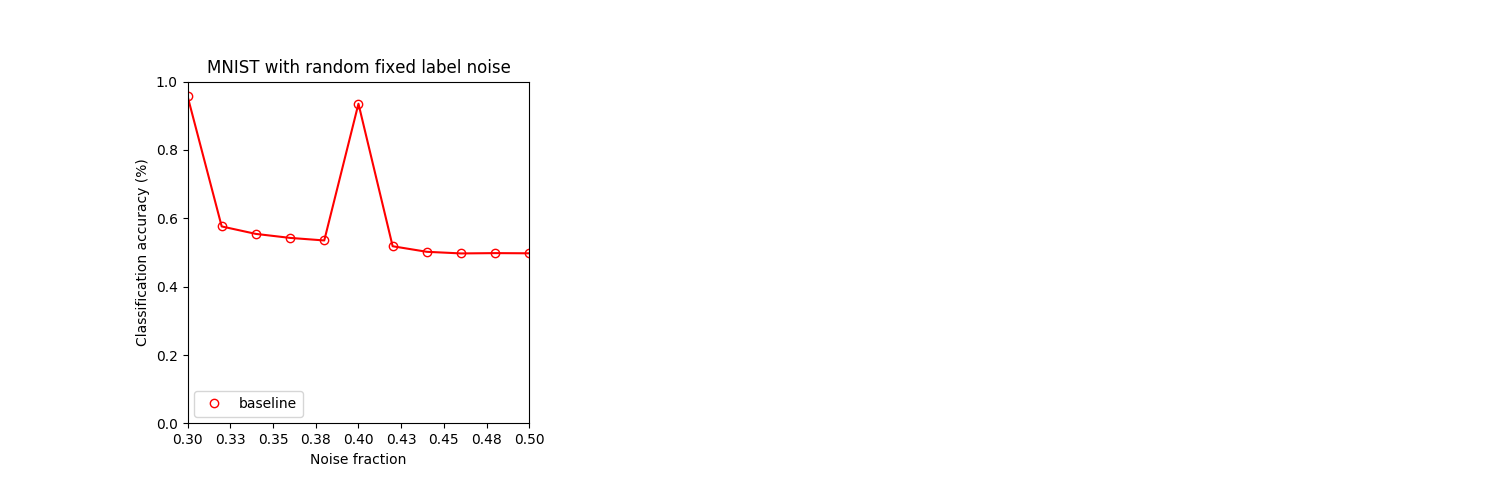
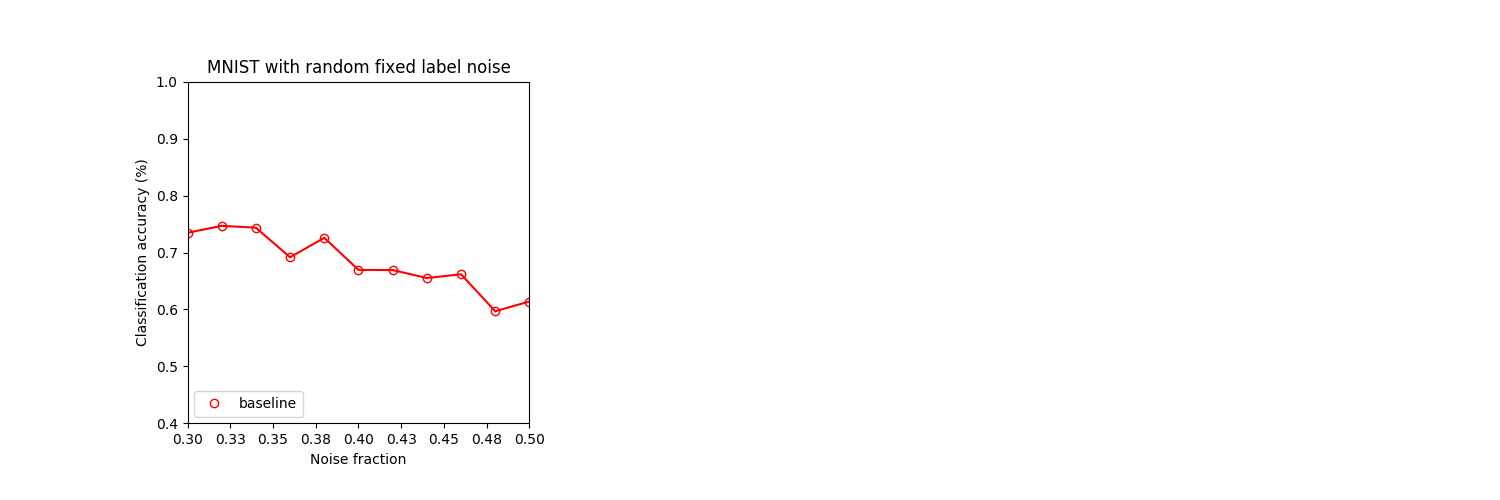
Add MNIST normalisation

diff --git a/train.py b/train.py
@@ -20,6 +20,7 @@ def get_noise_mapping(seed=1):
   return noise_mapping
 
 def noisify_labels(y, noise_fractions, noise_mapping, seed=1):
+  
   np.random.seed(seed)
   y_noisy = np.zeros(y.shape)
   for i in range(y.shape[0]):
@@ -34,8 +35,9 @@ def noisify_labels(y, noise_fractions, noise_mapping, seed=1):
 def noisify_mnist(noise_fraction):
   # load the data
   (x_train, y_train), (x_test, y_test) = mnist.load_data()
-  x_train = np.reshape(x_train, (x_train.shape[0], 784))
-  x_test = np.reshape(x_test, (x_test.shape[0], 784))
+
+  x_train = np.reshape(x_train, (x_train.shape[0], 784)) / 255.
+  x_test = np.reshape(x_test, (x_test.shape[0], 784)) / 255.
   
   noise_mapping = get_noise_mapping()
   noise_fractions = [noise_fraction for i in range(10)]
@@ -52,7 +54,8 @@ def noisify_mnist(noise_fraction):
   return x_train, y_train, y_train_noisy, x_test, y_test, map, noise_mapping
 
 def evaluate_noise_grid(model_getter, \
-                        noise_grid=[x for x in np.arange(0.3,0.51,0.02)]):
+                        noise_grid=[x for x in np.arange(0.3,0.51,0.02)], \
+                        n_splits=5):
 
   accs = []
   noise_mapping = None
@@ -65,12 +68,15 @@ def evaluate_noise_grid(model_getter, \
     weights_file = './%s/%s_noise_fraction_%.2lf.h5' \
                  % (model_name, model_name, noise_fraction)
     
+    validation_data = (x_test, np_utils.to_categorical(y_test))
+
     if not trained:
       model.fit(x_train, \
                 np_utils.to_categorical(y_train_noisy), \
+                validation_data=validation_data, \
                 callbacks=callbacks, \
-                batch_size=256, \
-                epochs=1000)
+                batch_size=32, \
+                epochs=10000)
       model.save(weights_file)
 
     model.load_weights(weights_file)
@@ -86,17 +92,13 @@ def baseline_model_getter(noise_fraction):
   # build the model for pre-training
   inputs = Input(shape=(784,))
   x = Dense(500, activation='relu', \
-    kernel_regularizer=regularizers.l2(0.0001), \
-    bias_regularizer=regularizers.l2(0.0001))(inputs)
+    kernel_regularizer=regularizers.l2(0.0001))(inputs)
   x = Dense(300, activation='relu', \
-    kernel_regularizer=regularizers.l2(0.0001), \
-    bias_regularizer=regularizers.l2(0.0001))(x)
+    kernel_regularizer=regularizers.l2(0.0001))(x)
   x = Dense(10, activation='relu', \
-    kernel_regularizer=regularizers.l2(0.0001), \
-    bias_regularizer=regularizers.l2(0.0001))(x)
-  q = Dense(10, activation='softmax', name='q',\
-    kernel_regularizer=regularizers.l2(0.0001), \
-    bias_regularizer=regularizers.l2(0.0001))(x)
+    kernel_regularizer=regularizers.l2(0.0001))(x)
+  q = Dense(10, activation='softmax', name='q', \
+    kernel_regularizer=regularizers.l2(0.0001))(x)
 
   model = Model(inputs, q)
   weights_file = \
@@ -108,11 +110,13 @@ def baseline_model_getter(noise_fraction):
     trained = True
   except OSError:
     callbacks = [ModelCheckpoint(weights_file, 'loss', verbose=1, save_best_only=True), \
-                 EarlyStopping('loss', mode='auto', patience=10)]
+                 EarlyStopping('loss', mode='auto', patience=1)]
   
-  sgd = SGD(lr=0.001)
+  #optimizer = SGD(lr=0.001, momentum=0.9)
+  #optimizer = Adam(lr=0.001)
+  optimizer = 'adam'
   model.compile(loss='categorical_crossentropy', \
-                optimizer=sgd, \
+                optimizer=optimizer, \
                 metrics=['acc'])
                   
   return model, callbacks, trained, 'baseline_model'
@@ -154,7 +158,8 @@ def bootstrap_recon_model_getter(noise_fraction):
     trained = True
   except OSError:
     callbacks = [ModelCheckpoint(weights_file, 'loss', save_best_only=True), \
-                 EarlyStopping('loss', mode='auto', patience=5)]
+                 EarlyStopping('loss', mode='auto', patience=5), \
+                 ReduceLROnPlateau(monitor='loss')]
   
   sgd = SGD(lr=0.01)
   beta = 0.005
